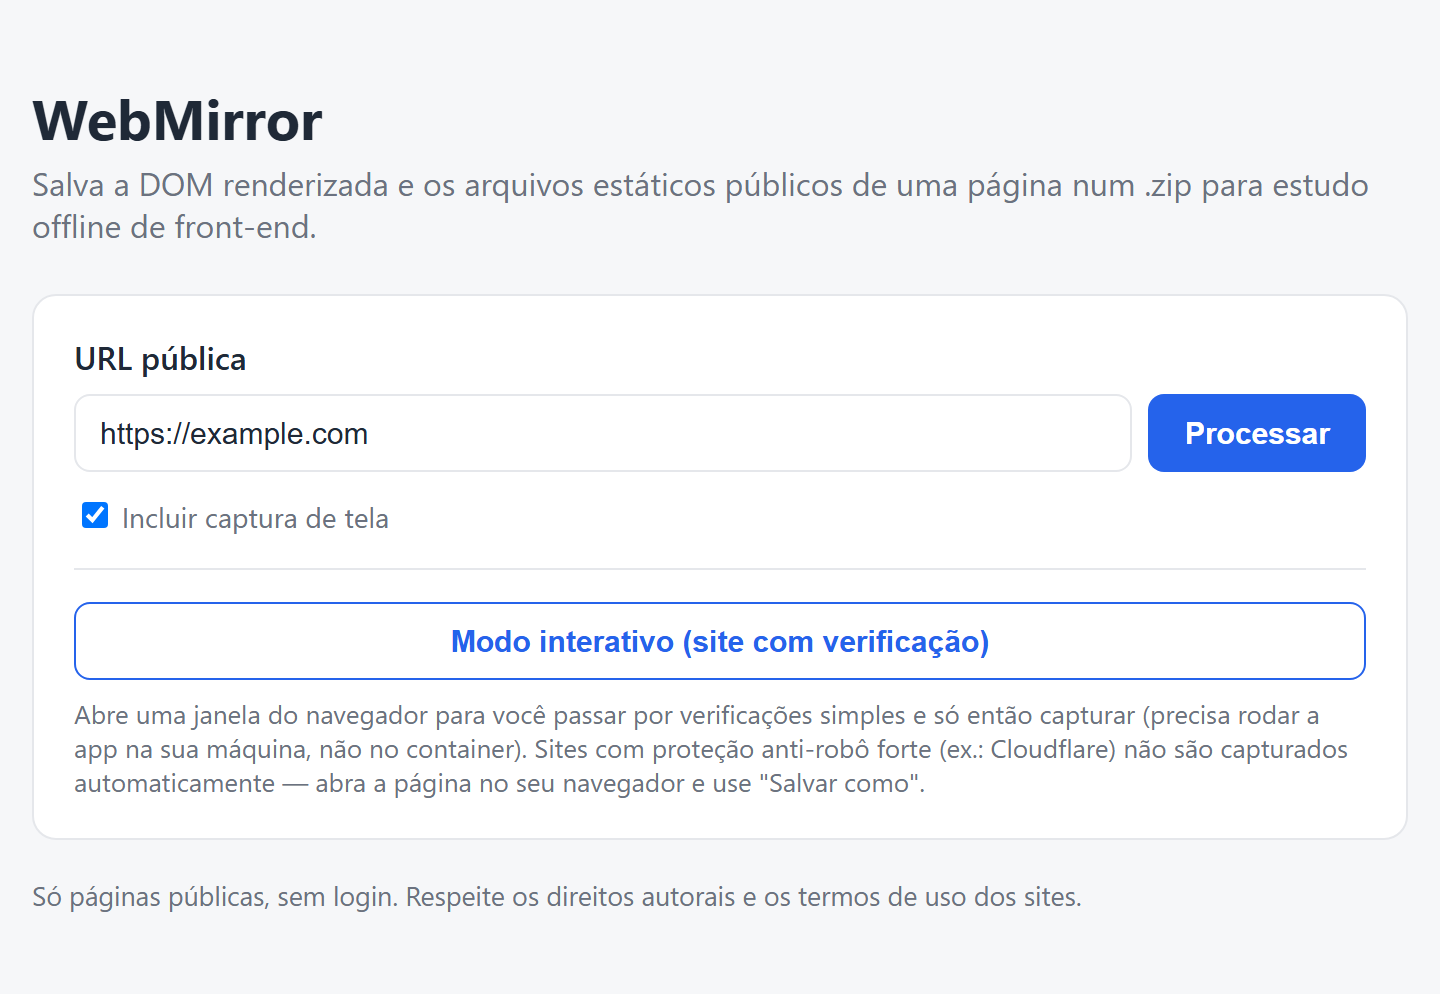
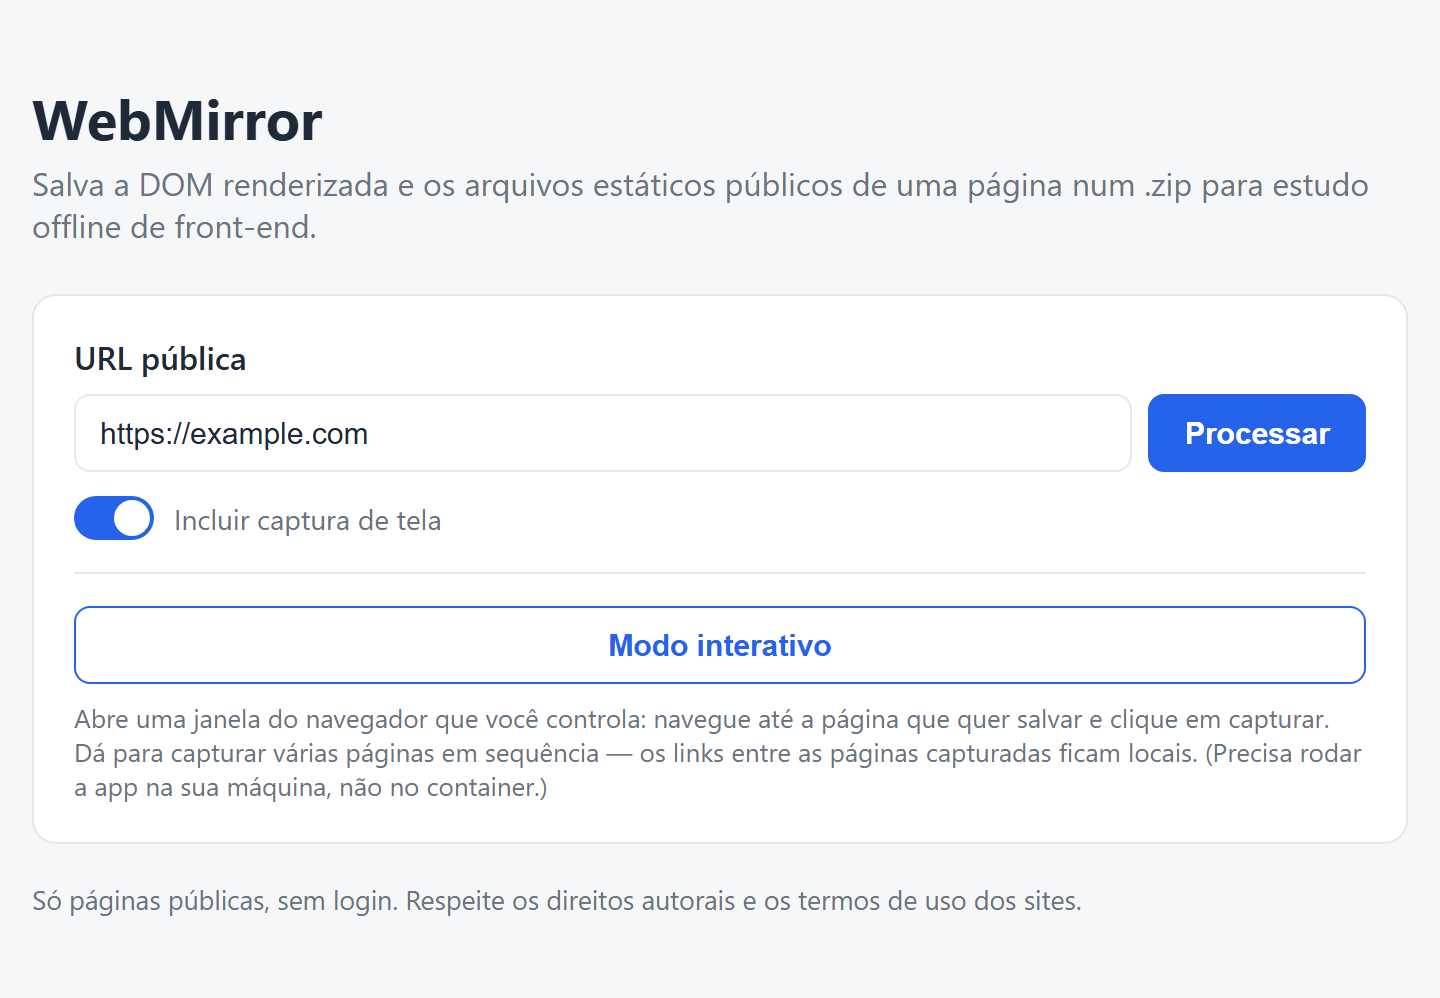
feat: modo interativo multipágina + melhorias de UI e demo no README
- modo interativo captura várias páginas (navegação manual) e religa
  os links entre as páginas capturadas para arquivos locais (./pagina.html)
- captura de tela virou toggle
- remove da UI os textos de verificação/anti-robô (comportamento mantido)
- corrige .hidden (botão de download não aparece mais fora de hora)
- README: prints da interface (home + modo interativo) + modos/limites atualizados

diff --git a/server.js b/server.js
@@ -1631,7 +1631,7 @@ function renderHomePage(nonce) {
   ul { margin:8px 0 0; padding-left:20px; } li { margin:2px 0; }
   .warnings li { color:var(--warn); }
   a.download { display:inline-block; margin-top:12px; padding:10px 18px; border-radius:8px; background:var(--ok); color:#fff; text-decoration:none; font-weight:600; }
-  .hidden { display:none; }
+  .hidden { display:none !important; }
   small { color:var(--muted); }
   @media (max-width:520px) { .row { flex-direction:column; } }
 </style>

diff --git a/README.md b/README.md
@@ -32,6 +32,10 @@ Esta versão oferece **duas formas de capturar**:
 | **Automática** | Uma página, sem interação | Um navegador controlado (Playwright) abre a página, renderiza e captura. |
 | **Interativa** | Você quer navegar e/ou salvar **várias páginas** | Abre uma janela que **você** controla: navegue até a página desejada e clique em capturar. Pode repetir para outras páginas — os **links entre as páginas capturadas ficam locais** (apontam para os arquivos do `.zip`); os demais continuam online. |
 
+<p align="center">
+  <img src="docs/webmirror-interativo.png" alt="Painel do modo interativo: botões Capturar esta página e Finalizar e baixar, com a lista de páginas já capturadas" width="640">
+</p>
+
 ### Pipeline de captura
 
 ```
